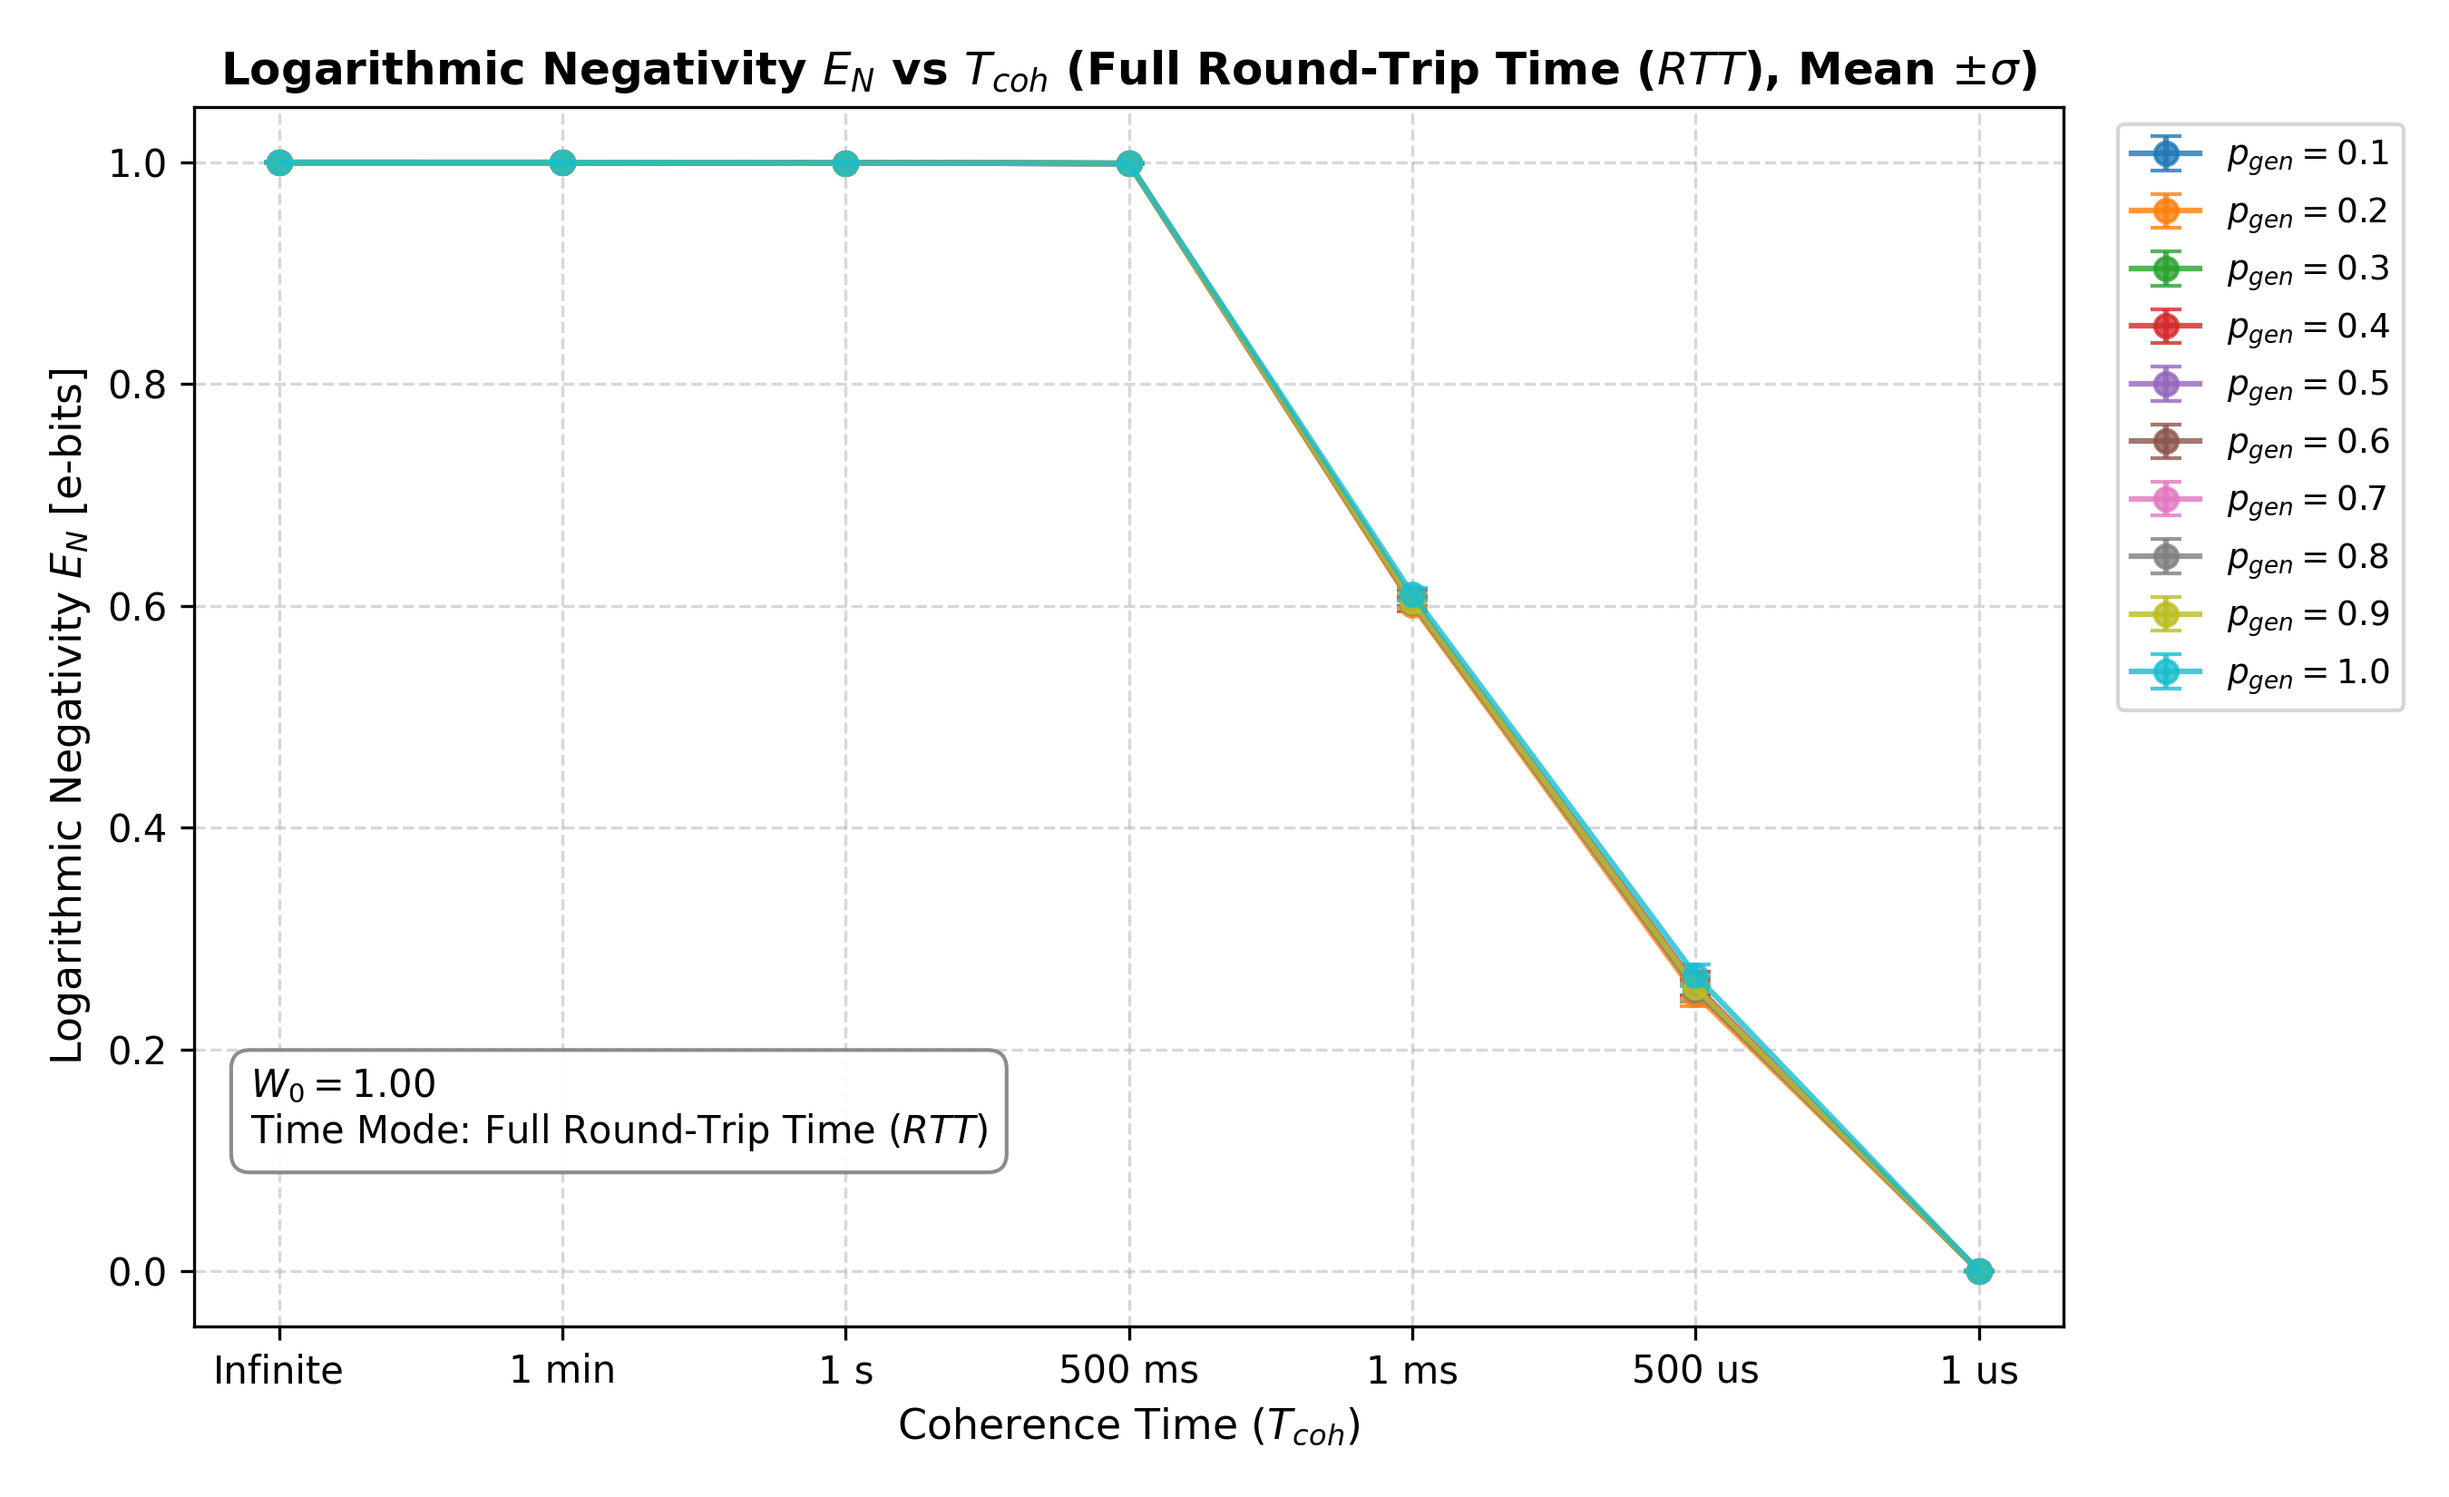
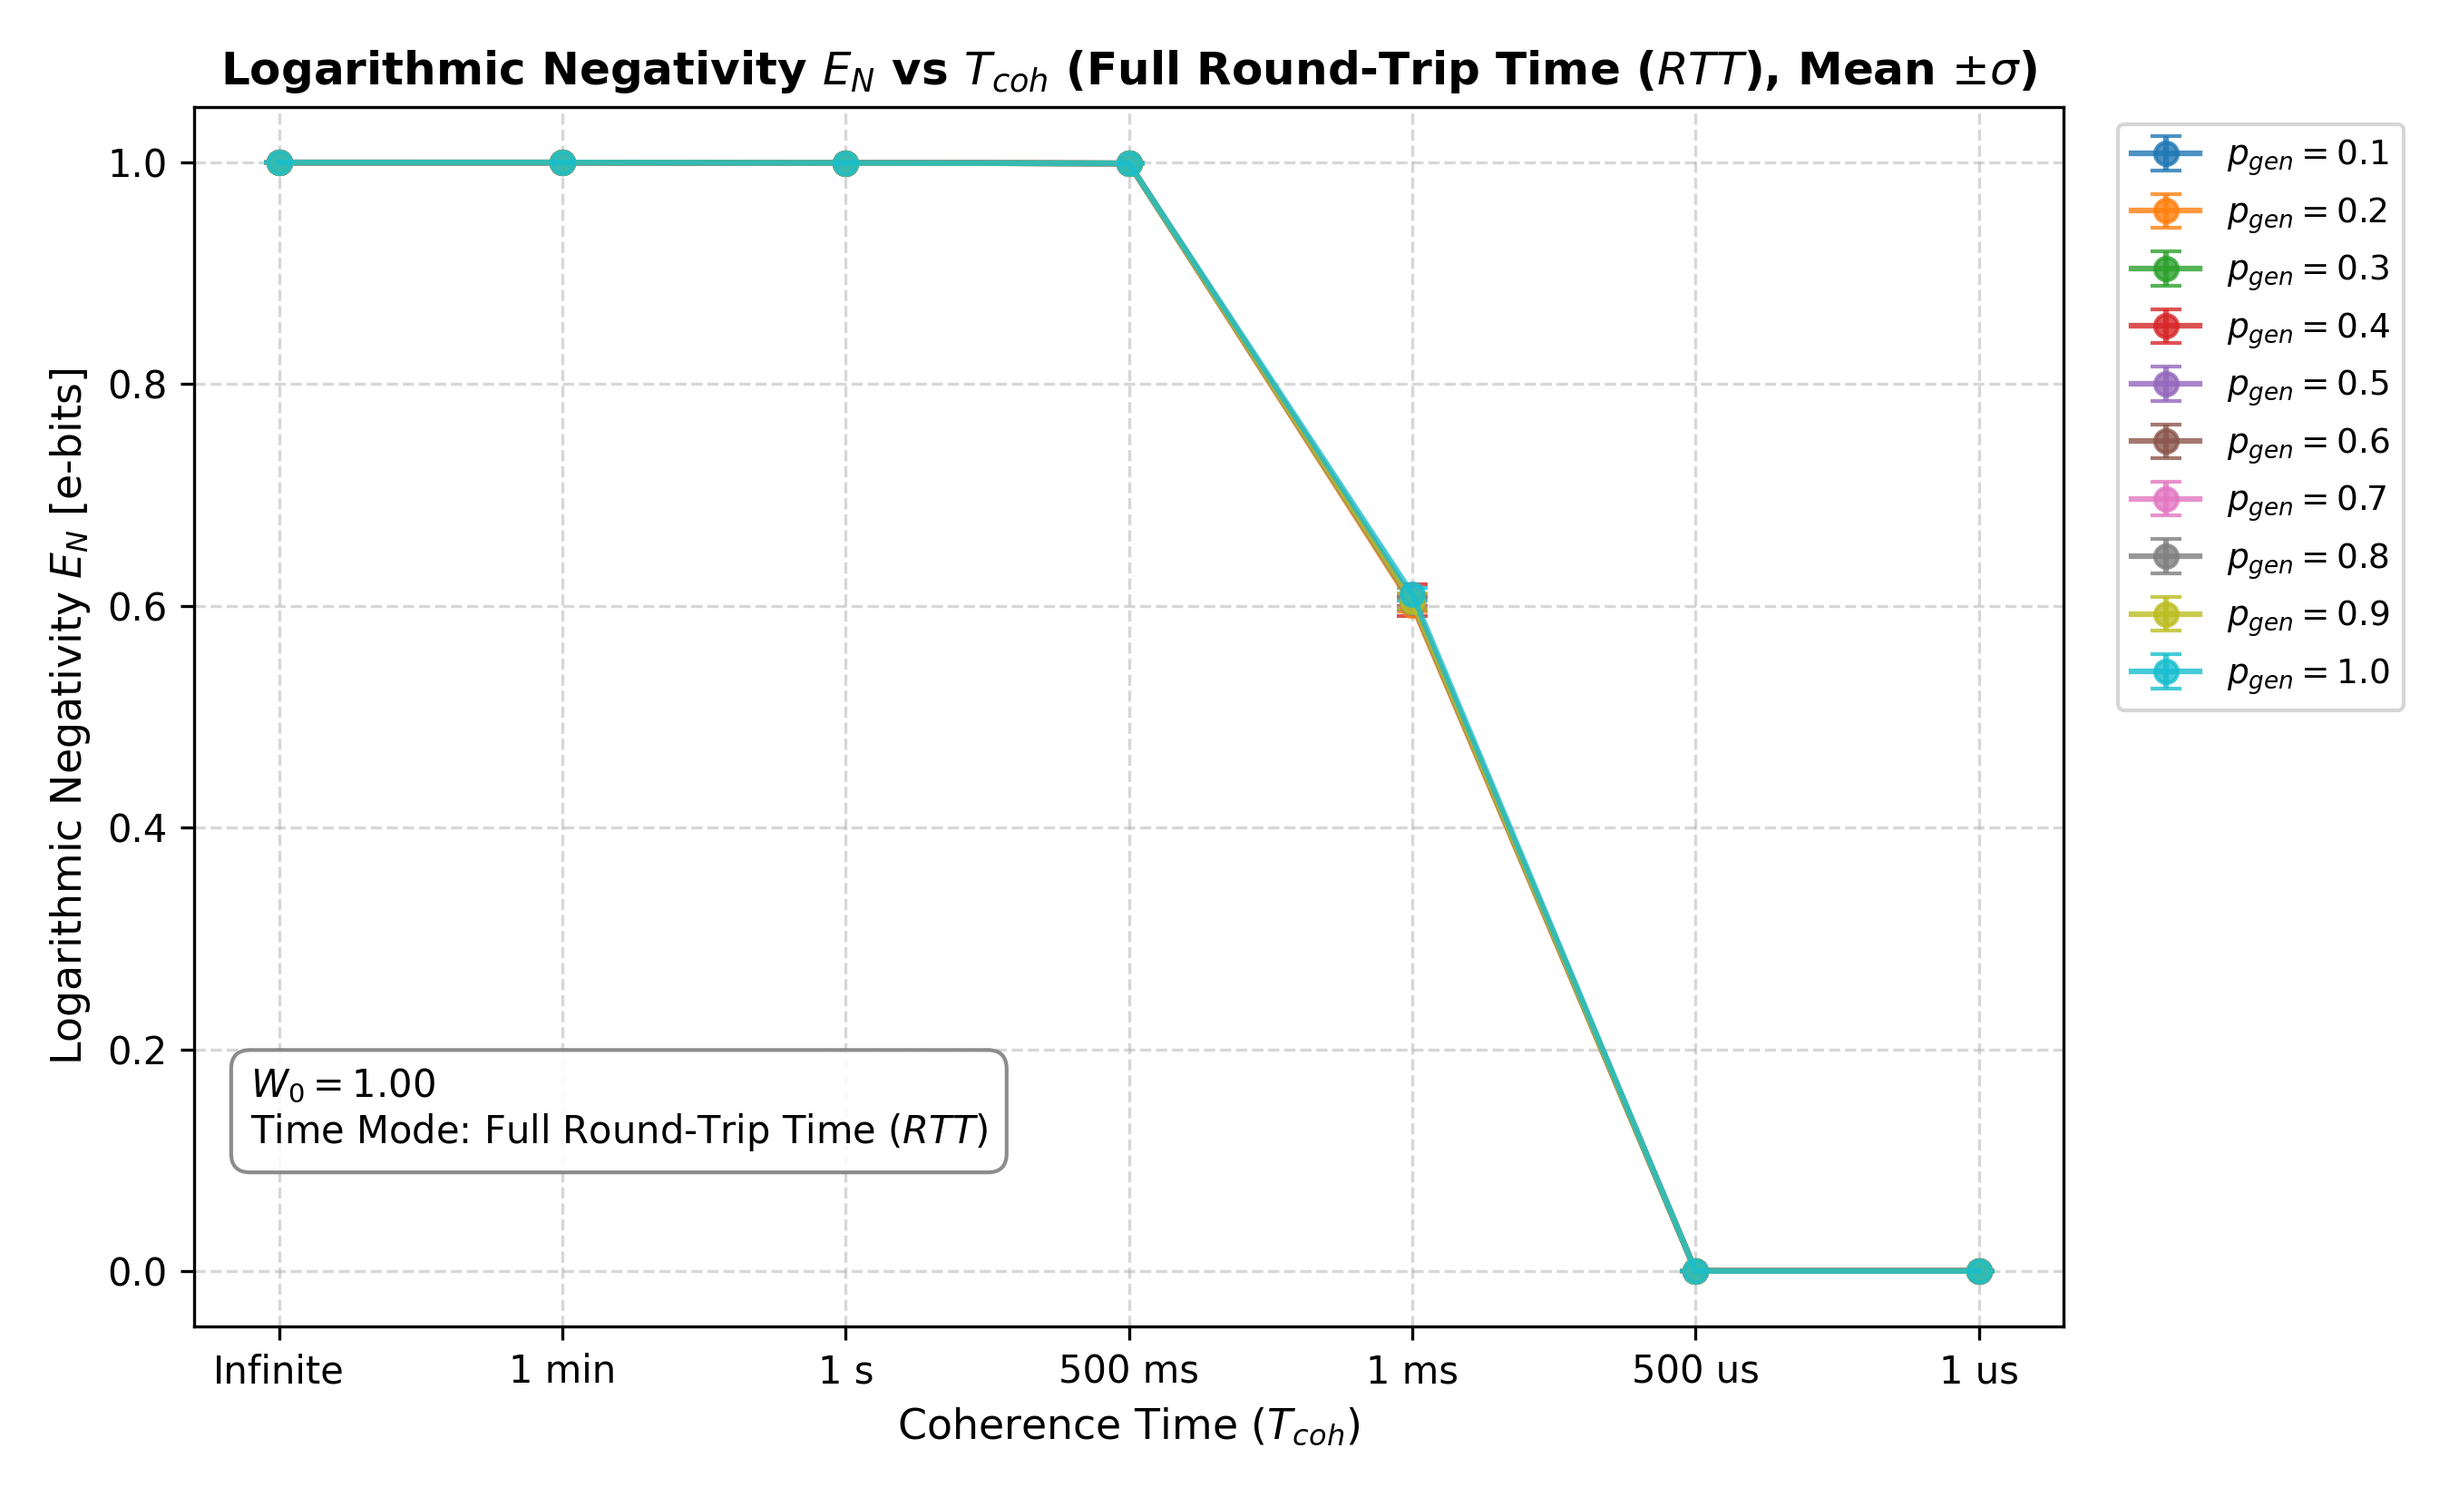
Corrections in the plots

diff --git a/AEGO/AEGO_analizer_2.py b/AEGO/AEGO_analizer_2.py
@@ -127,6 +127,7 @@ def generate_summary_table(pgen_data_dict, sorted_pgens, mode_key, mode_label, t
         tr_ns = df_gen['e2r_ns'].values if mode_key == 'one_way' else df_gen['rtt_ns'].values
         w_vals = compute_w_experimental(tr_ns, t_coh_ref_ns, w0=w0_val)
         en_vals = compute_log_negativity(w_vals)
+        en_vals[en_vals < 0.3] = 0.0  # Truncamiento a 0 si es menor a 0.3 e-bits
         
         EN_mean = float(np.mean(en_vals))
         Rate_indiv_mean = float(np.mean(en_vals / df_gen['t_gen_s'].values))
@@ -207,10 +208,32 @@ def plot_tgen_vs_pgen(tgen_means_ms, tgen_stds_ms, sorted_pgens, mode_label, w0_
 
     plt.xlabel('Generation Probability ($p_{gen}$)', fontsize=11)
     plt.ylabel('Generation Time $t_{gen}$ [ms]', fontsize=11)
-    plt.title(f'Generation Time $t_{{gen}}$ vs $p_{{gen}}$ ({mode_label}, Mean $\pm \sigma$)', fontsize=12, fontweight='bold')
+    plt.title(f'Generation Time $t_{{gen}}$ vs $p_{{gen}}$ (Mean $\pm \sigma$)', fontsize=12, fontweight='bold')
     plt.grid(True, linestyle='--', alpha=0.5)
     plt.legend(loc='upper right', fontsize=10)
 
+
+    plt.tight_layout()
+    plt.savefig(file_path, dpi=300)
+    plt.close()
+    print(f"[+] Plot saved: {file_path}")
+
+def plot_ngen_vs_pgen(ngen_means, ngen_stds, sorted_pgens, mode_label, w0_val, output_dir=OUTPUT_DIR):
+    """Plots N_gen vs pgen showing mean and standard deviation."""
+    file_path = os.path.join(output_dir, f"plot_2b_ngen_vs_pgen.png")
+    plt.figure(figsize=(8, 5))
+    pgens_str = [f"{p:.1f}" for p in sorted_pgens]
+    
+    plt.errorbar(
+        pgens_str, ngen_means, yerr=ngen_stds, marker='s', color='navy', 
+        ecolor='crimson', capsize=5, capthick=1.5, linewidth=2, label='Empirical $N_{gen}$'
+    )
+
+    plt.xlabel('Generation Probability ($p_{gen}$)', fontsize=11)
+    plt.ylabel('Number of Attempts $N_{gen}$', fontsize=11)
+    plt.title(f'Attempts $N_{{gen}}$ vs $p_{{gen}}$ (Mean $\pm \sigma$)', fontsize=12, fontweight='bold')
+    plt.grid(True, linestyle='--', alpha=0.5)
+    plt.legend(loc='upper right', fontsize=10)
 
     plt.tight_layout()
     plt.savefig(file_path, dpi=300)
@@ -241,6 +264,20 @@ def plot_rate_heatmap(rate_matrix, sorted_pgens, mode_label, w0_val, output_dir=
     plt.close()
     print(f"[+] Plot saved: {file_path}")
 
+
+def report_extreme_rtt_outliers(df_raw, pgen, file_path, threshold_us=500.0):
+    """Identifies and prints attempt rows where RTT exceeds the specified threshold in microseconds."""
+    df_check = df_raw.dropna(subset=['rtt_ns']).copy()
+    df_check['rtt_us'] = df_check['rtt_ns'] / 1000.0
+    outliers = df_check[df_check['rtt_us'] > threshold_us]
+    
+    if not outliers.empty:
+        print(f"  [OUTLIER DETECTED - HIGH RTT] pgen = {pgen:.1f} | File: {os.path.basename(file_path)}")
+        for idx, row in outliers.iterrows():
+            print(f"      -> Attempt Row #{idx}: RTT = {row['rtt_us']:.2f} µs ({row['rtt_ns']:.0f} ns) | Success = {int(row.get('success_bit', 0))}")
+    return outliers
+
+
 def main():
     parser = argparse.ArgumentParser(description="AEGO Entanglement Analysis Suite")
     parser.add_argument(
@@ -254,6 +291,12 @@ def main():
         type=float,
         default=1.0,
         help="Initial Werner state parameter W0 (default: 1.0)"
+    )
+    parser.add_argument(
+        "--threshold-us",
+        type=float,
+        default=500.0,
+        help="Microsecond (µs) threshold to alert on extreme t_gen values (default: 500.0)"
     )
     args = parser.parse_args()
 
@@ -282,6 +325,8 @@ def main():
                     df_single = pd.read_csv(f)
                     df_proc = process_sender_data_pure_empirical(df_single, mode=mode_key)
                     if not df_proc.empty:
+                        # Report extreme outliers before percentile filtering
+                        report_extreme_rtt_outliers(df_proc, pgen, f, threshold_us=args.threshold_us)
                         gen_dfs.append(df_proc)
 
             if gen_dfs:
@@ -308,18 +353,24 @@ def main():
 
         tgen_means_ms = []
         tgen_stds_ms = []
+        ngen_means = []
+        ngen_stds = []
 
         for col_idx, pgen in enumerate(sorted_pgens):
             df_gen = pgen_data_dict[pgen]
             t_gen_s = df_gen['t_gen_s'].values
+            n_gen_vals = df_gen['N_gen'].values
             t_roundtrip_ns = df_gen['t_roundtrip_ns'].values
 
             tgen_means_ms.append(np.mean(t_gen_s) * 1000.0)
             tgen_stds_ms.append(np.std(t_gen_s) * 1000.0)
+            ngen_means.append(np.mean(n_gen_vals))
+            ngen_stds.append(np.std(n_gen_vals))
 
             for row_idx, t_coh_ns in enumerate(TCOH_VALUES_NS):
                 w_vals = compute_w_experimental(t_roundtrip_ns, t_coh_ns, w0=args.w0)
                 en_vals = compute_log_negativity(w_vals)
+                en_vals[en_vals < 0.3] = 0.0 
                 
                 en_means_matrix[row_idx, col_idx] = np.mean(en_vals)
                 en_stds_matrix[row_idx, col_idx] = np.std(en_vals)
@@ -330,6 +381,7 @@ def main():
         plot_en_vs_tcoh(en_means_matrix, en_stds_matrix, sorted_pgens, mode_label, args.w0, filename_suffix=mode_key)
         if not already_plotted:
             plot_tgen_vs_pgen(tgen_means_ms, tgen_stds_ms, sorted_pgens, mode_label, args.w0)
+            plot_ngen_vs_pgen(ngen_means, ngen_stds, sorted_pgens, mode_label, args.w0)
             already_plotted = True
         plot_rate_heatmap(rate_matrix, sorted_pgens, mode_label, args.w0, filename_suffix=mode_key)
 
